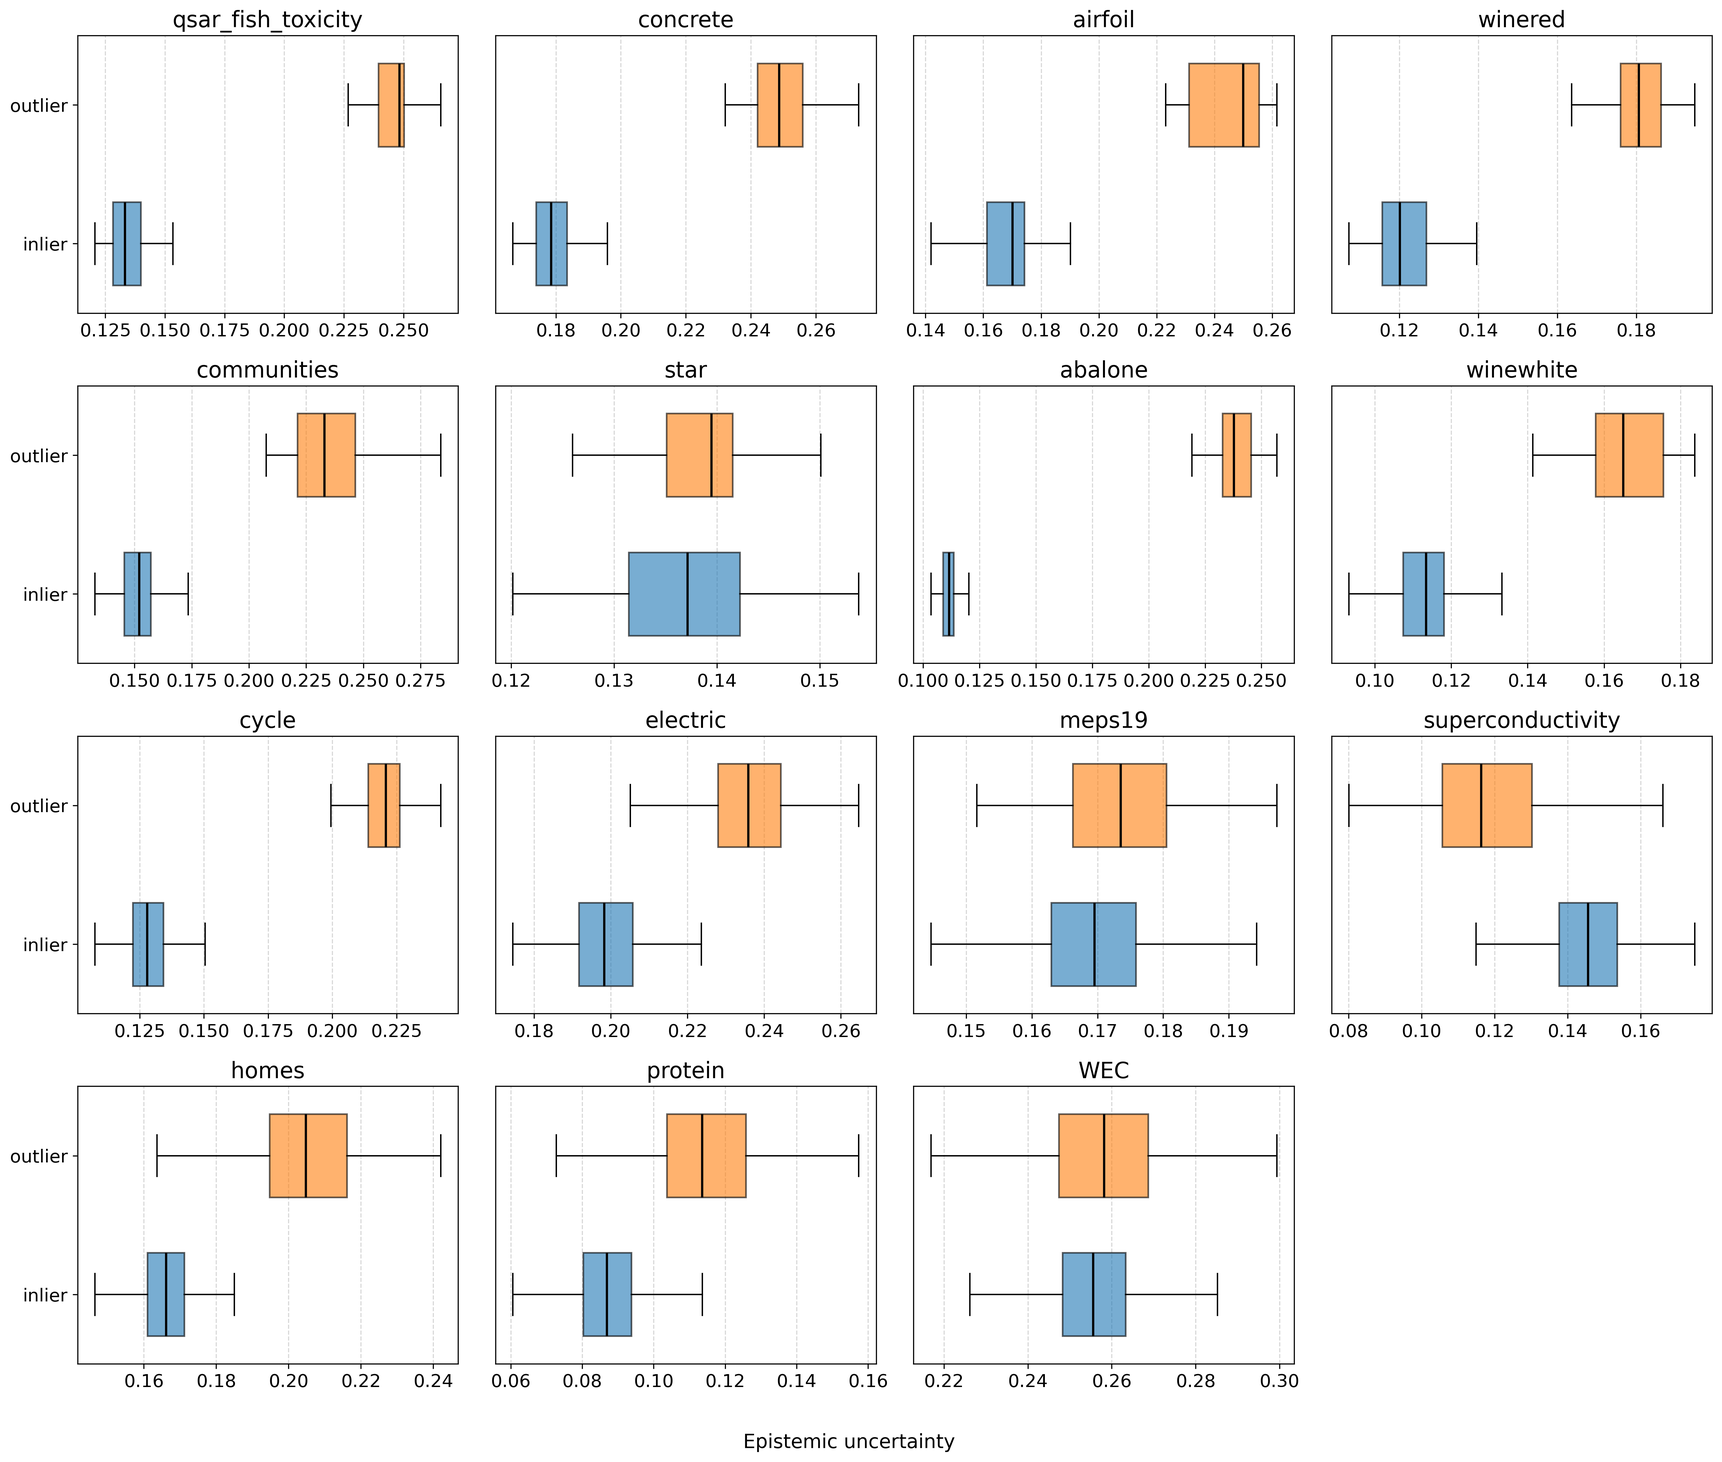
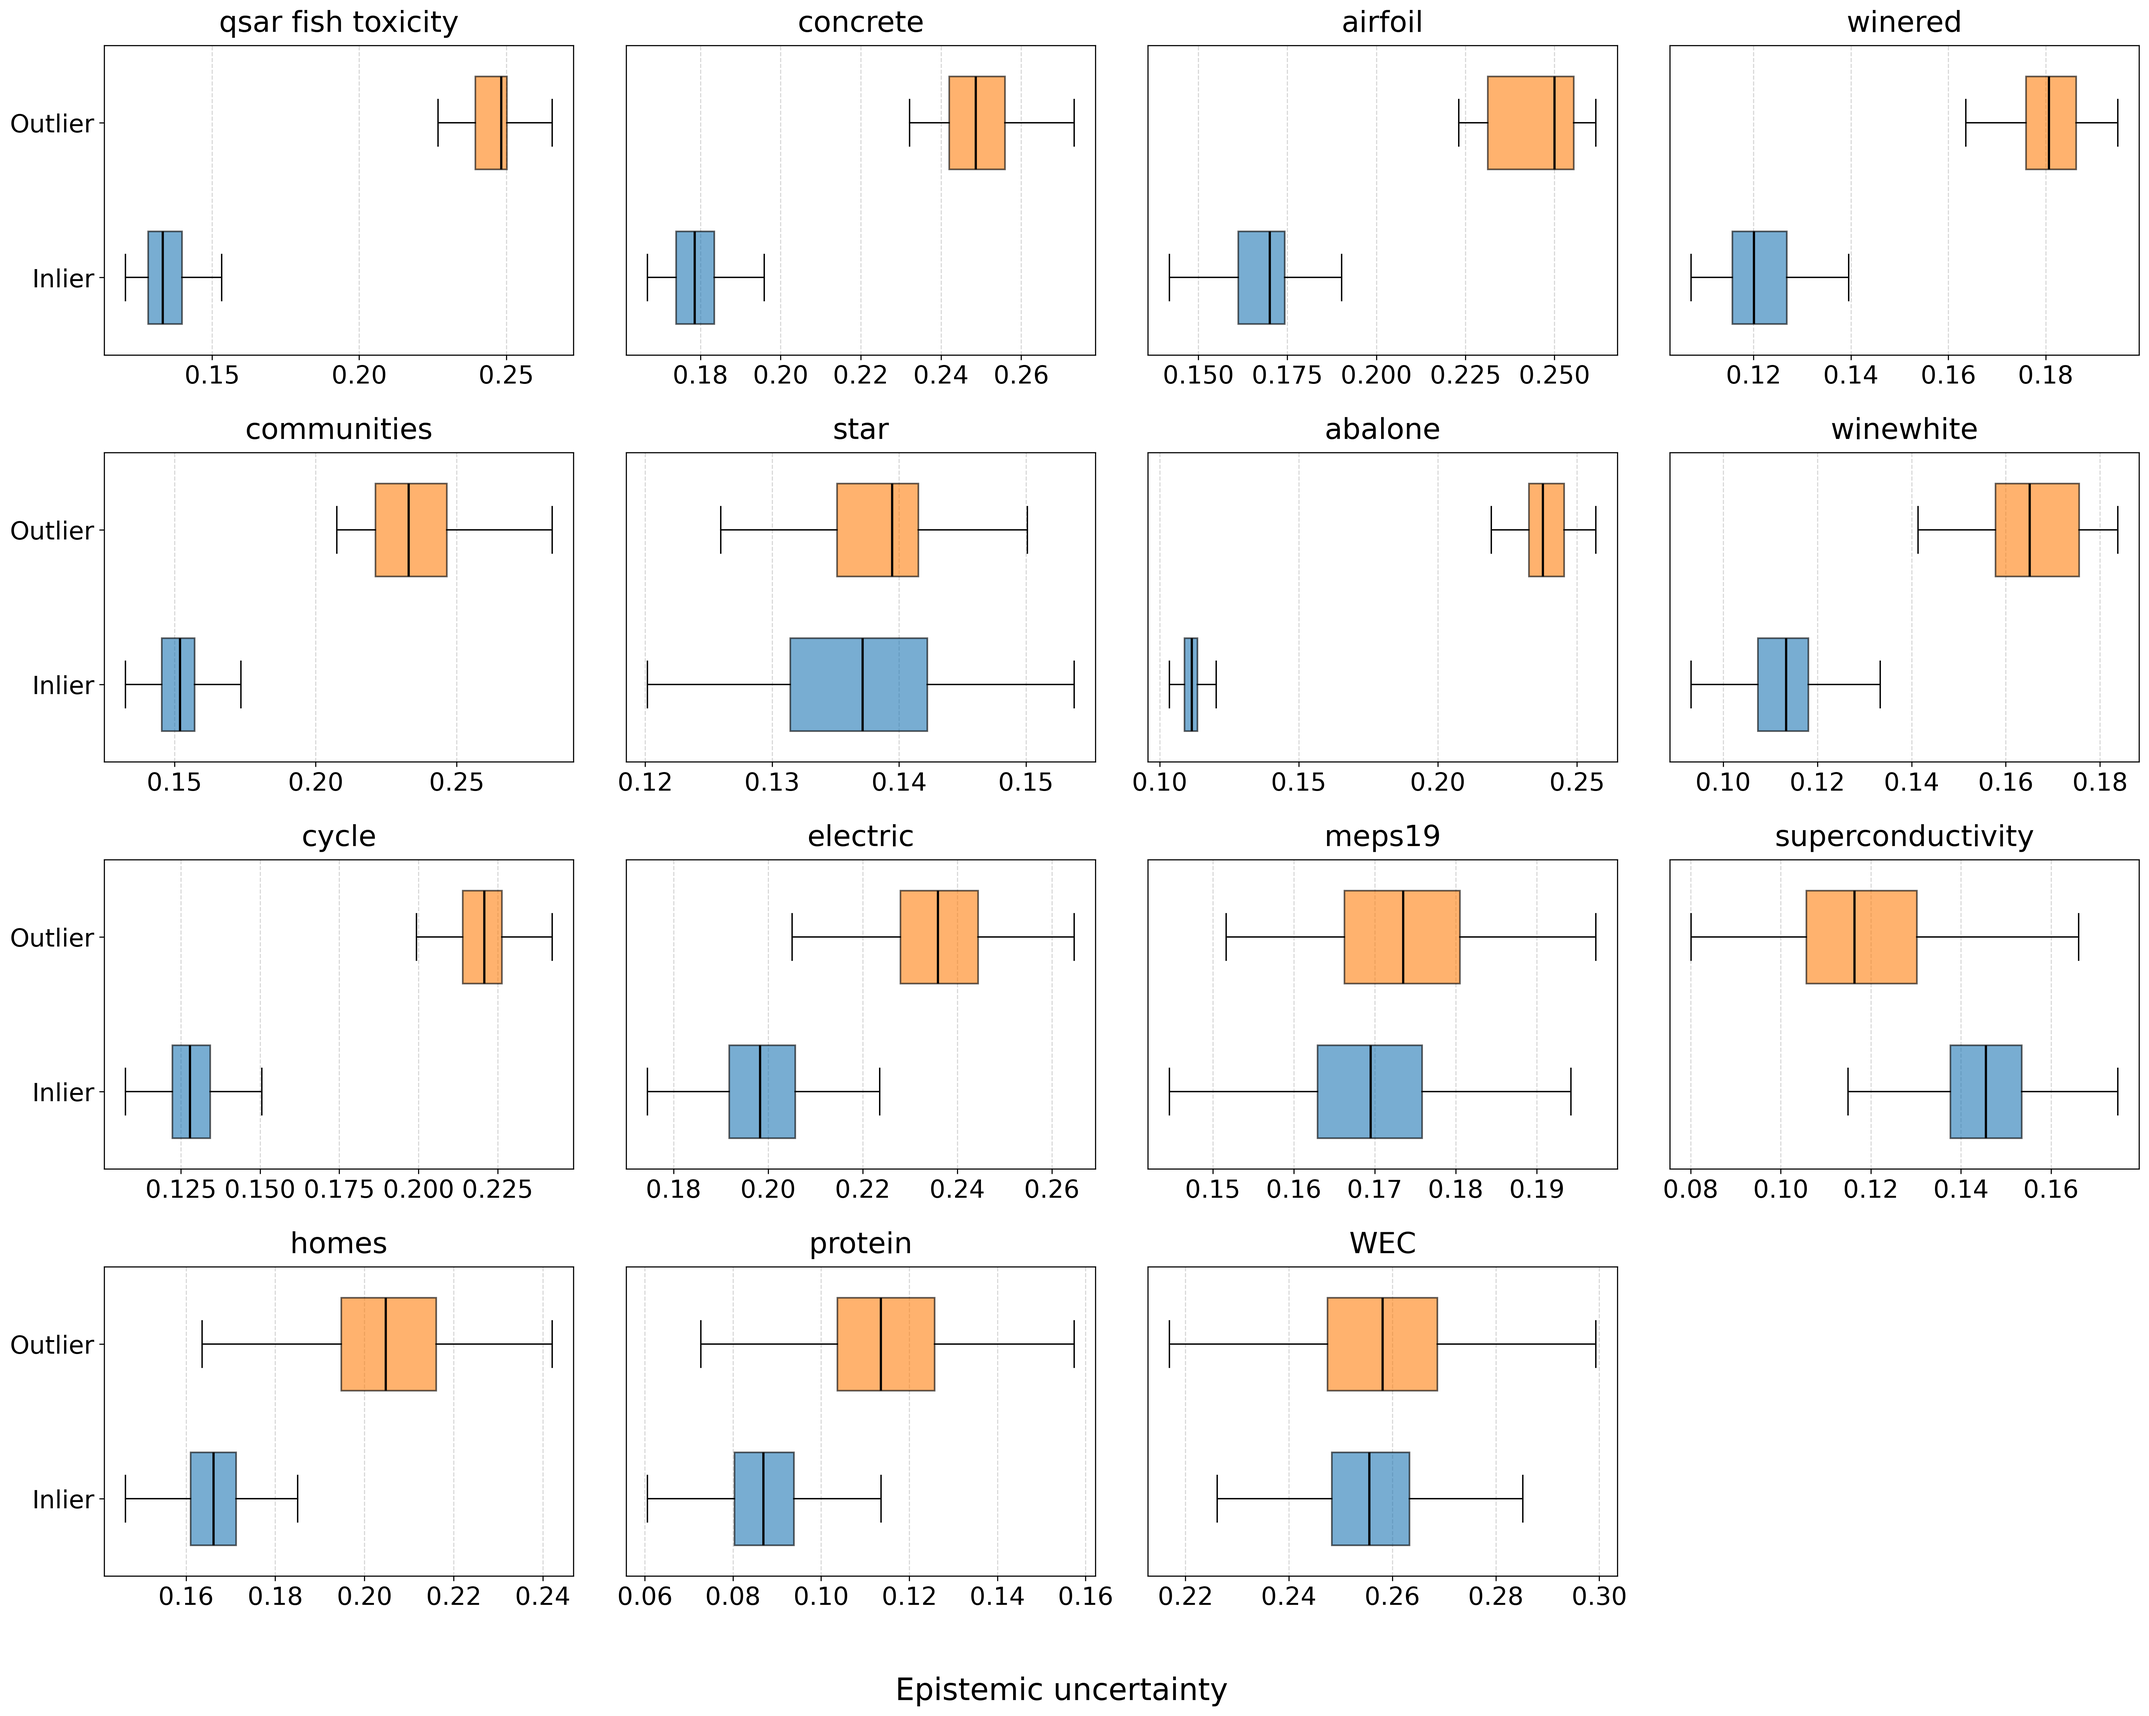
increasing font sizes in all disentaglement results

diff --git a/comparisons/get_decomp_results.py b/comparisons/get_decomp_results.py
@@ -112,21 +112,29 @@ def prepare_axes(n_plots, figsize_per_panel=(4.5, 3.8), max_cols=4):
     return fig, axes.flatten(), n_rows, n_cols
 
 
+def display_dataset_name(name):
+    return name.replace("_", " ")
+
+
 def style_plot_fonts():
     plt.rcParams.update(
         {
-            "font.size": 14,
-            "axes.titlesize": 16,
-            "axes.labelsize": 14,
-            "xtick.labelsize": 13,
-            "ytick.labelsize": 13,
-            "legend.fontsize": 14,
+            "font.size": 19,
+            "axes.titlesize": 21,
+            "axes.labelsize": 20,
+            "xtick.labelsize": 18,
+            "ytick.labelsize": 18,
+            "legend.fontsize": 19,
         }
     )
 
 
 def plot_boxplots(data_boxplot, output_path=None, show=True, max_cols=4):
-    fig, axes, _, n_cols = prepare_axes(len(data_boxplot), max_cols=max_cols)
+    fig, axes, _, n_cols = prepare_axes(
+        len(data_boxplot),
+        figsize_per_panel=(5.65, 4.45),
+        max_cols=max_cols,
+    )
     colors = ["C0", "C1"]
     show_ytick_idxs = {idx for idx in range(0, len(data_boxplot), n_cols)}
 
@@ -142,7 +150,7 @@ def plot_boxplots(data_boxplot, output_path=None, show=True, max_cols=4):
         boxplot = ax.boxplot(
             data,
             vert=False,
-            tick_labels=["inlier", "outlier"],
+            tick_labels=["Inlier", "Outlier"],
             widths=0.6,
             patch_artist=True,
             showfliers=False,
@@ -156,19 +164,19 @@ def plot_boxplots(data_boxplot, output_path=None, show=True, max_cols=4):
             median.set_linewidth(1.6)
 
         ax.set_ylim(0.5, 2.5)
-        ax.set_title(name)
+        ax.set_title(display_dataset_name(name), pad=10)
         ax.grid(axis="x", linestyle="--", alpha=0.5)
         if i in show_ytick_idxs:
             ax.set_yticks([1, 2])
-            ax.set_yticklabels(["inlier", "outlier"])
+            ax.set_yticklabels(["Inlier", "Outlier"], fontsize=18)
         else:
             ax.set_yticks([])
 
     for ax in axes[len(data_boxplot) :]:
         ax.axis("off")
 
-    fig.text(0.5, 0.04, "Epistemic uncertainty", ha="center", va="center")
-    fig.tight_layout(rect=[0.02, 0.06, 1.0, 1.0])
+    fig.text(0.5, 0.035, "Epistemic uncertainty", ha="center", va="center", fontsize=22)
+    fig.tight_layout(rect=[0.02, 0.065, 1.0, 1.0])
     if output_path:
         fig.savefig(output_path, dpi=300, bbox_inches="tight")
     if show:
@@ -194,12 +202,12 @@ def plot_barplots(data_barplot, output_path=None, show=True, max_cols=4):
             ax.errorbar(pos, mean, yerr=se, fmt="none", ecolor="k", capsize=5)
 
         ax.set_xticks(positions)
-        ax.set_xticklabels(types)
+        ax.set_xticklabels([label.title() for label in types])
         if i < n_cols:
             ax.tick_params(axis="x", labelbottom=False)
         if i in show_ylabel_idxs:
             ax.set_ylabel("Epistemic uncertainty", rotation=90, labelpad=6)
-        ax.set_title(name)
+        ax.set_title(display_dataset_name(name))
 
     for ax in axes[len(data_barplot) :]:
         ax.axis("off")
